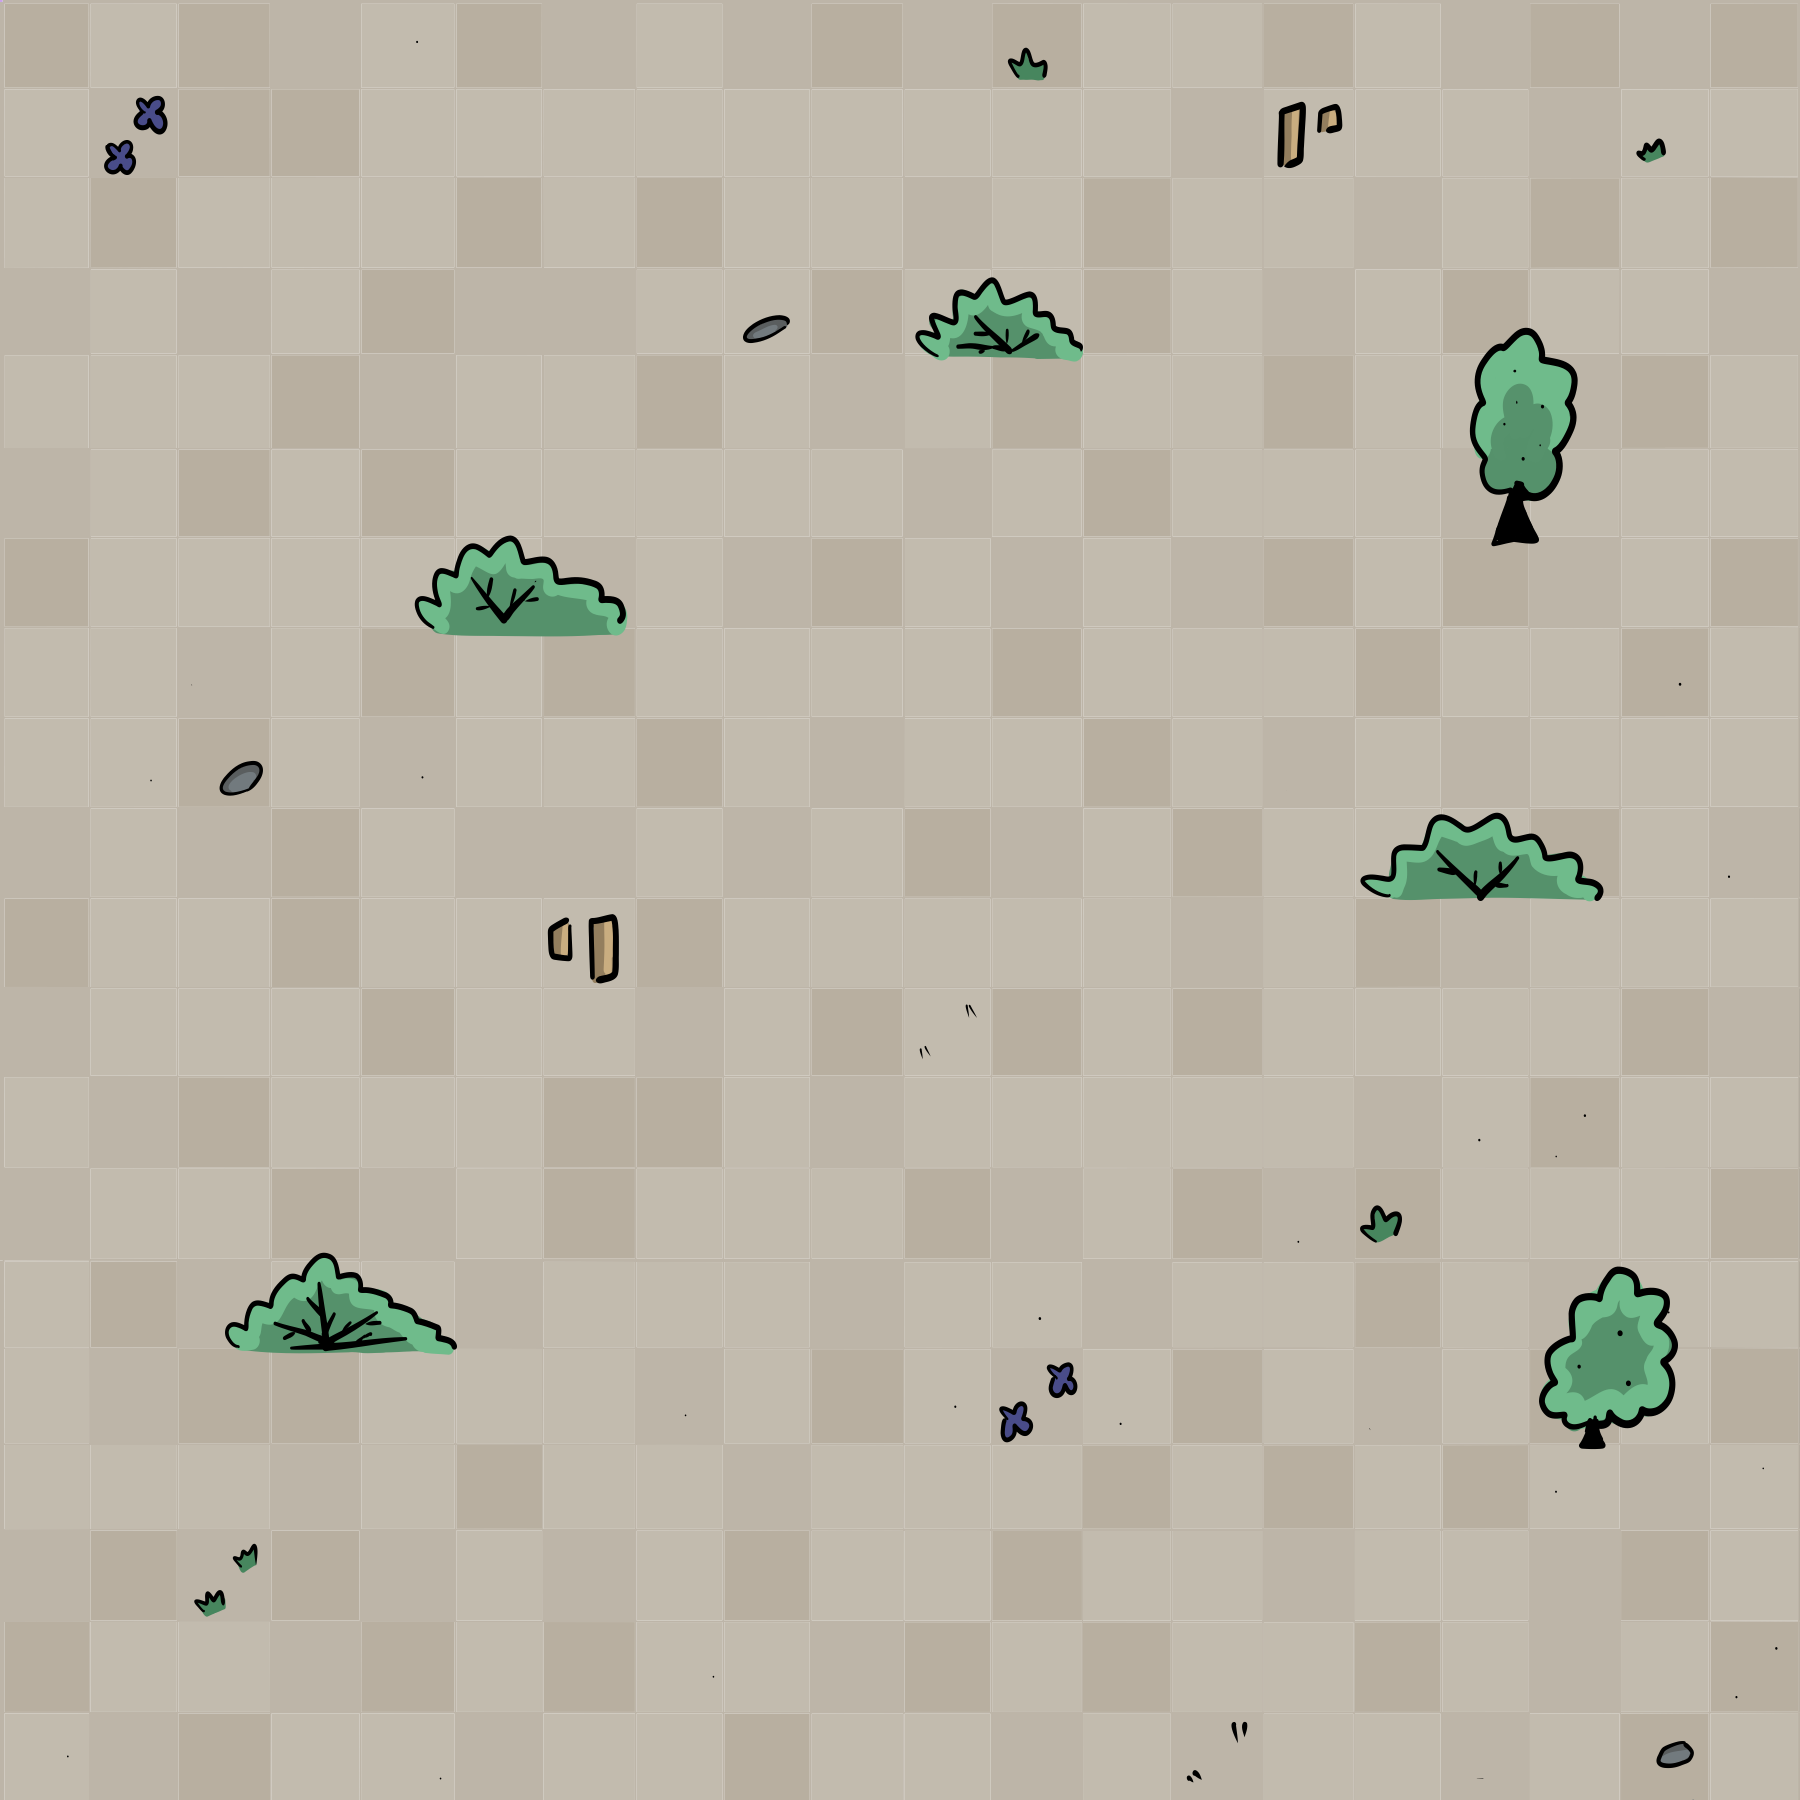
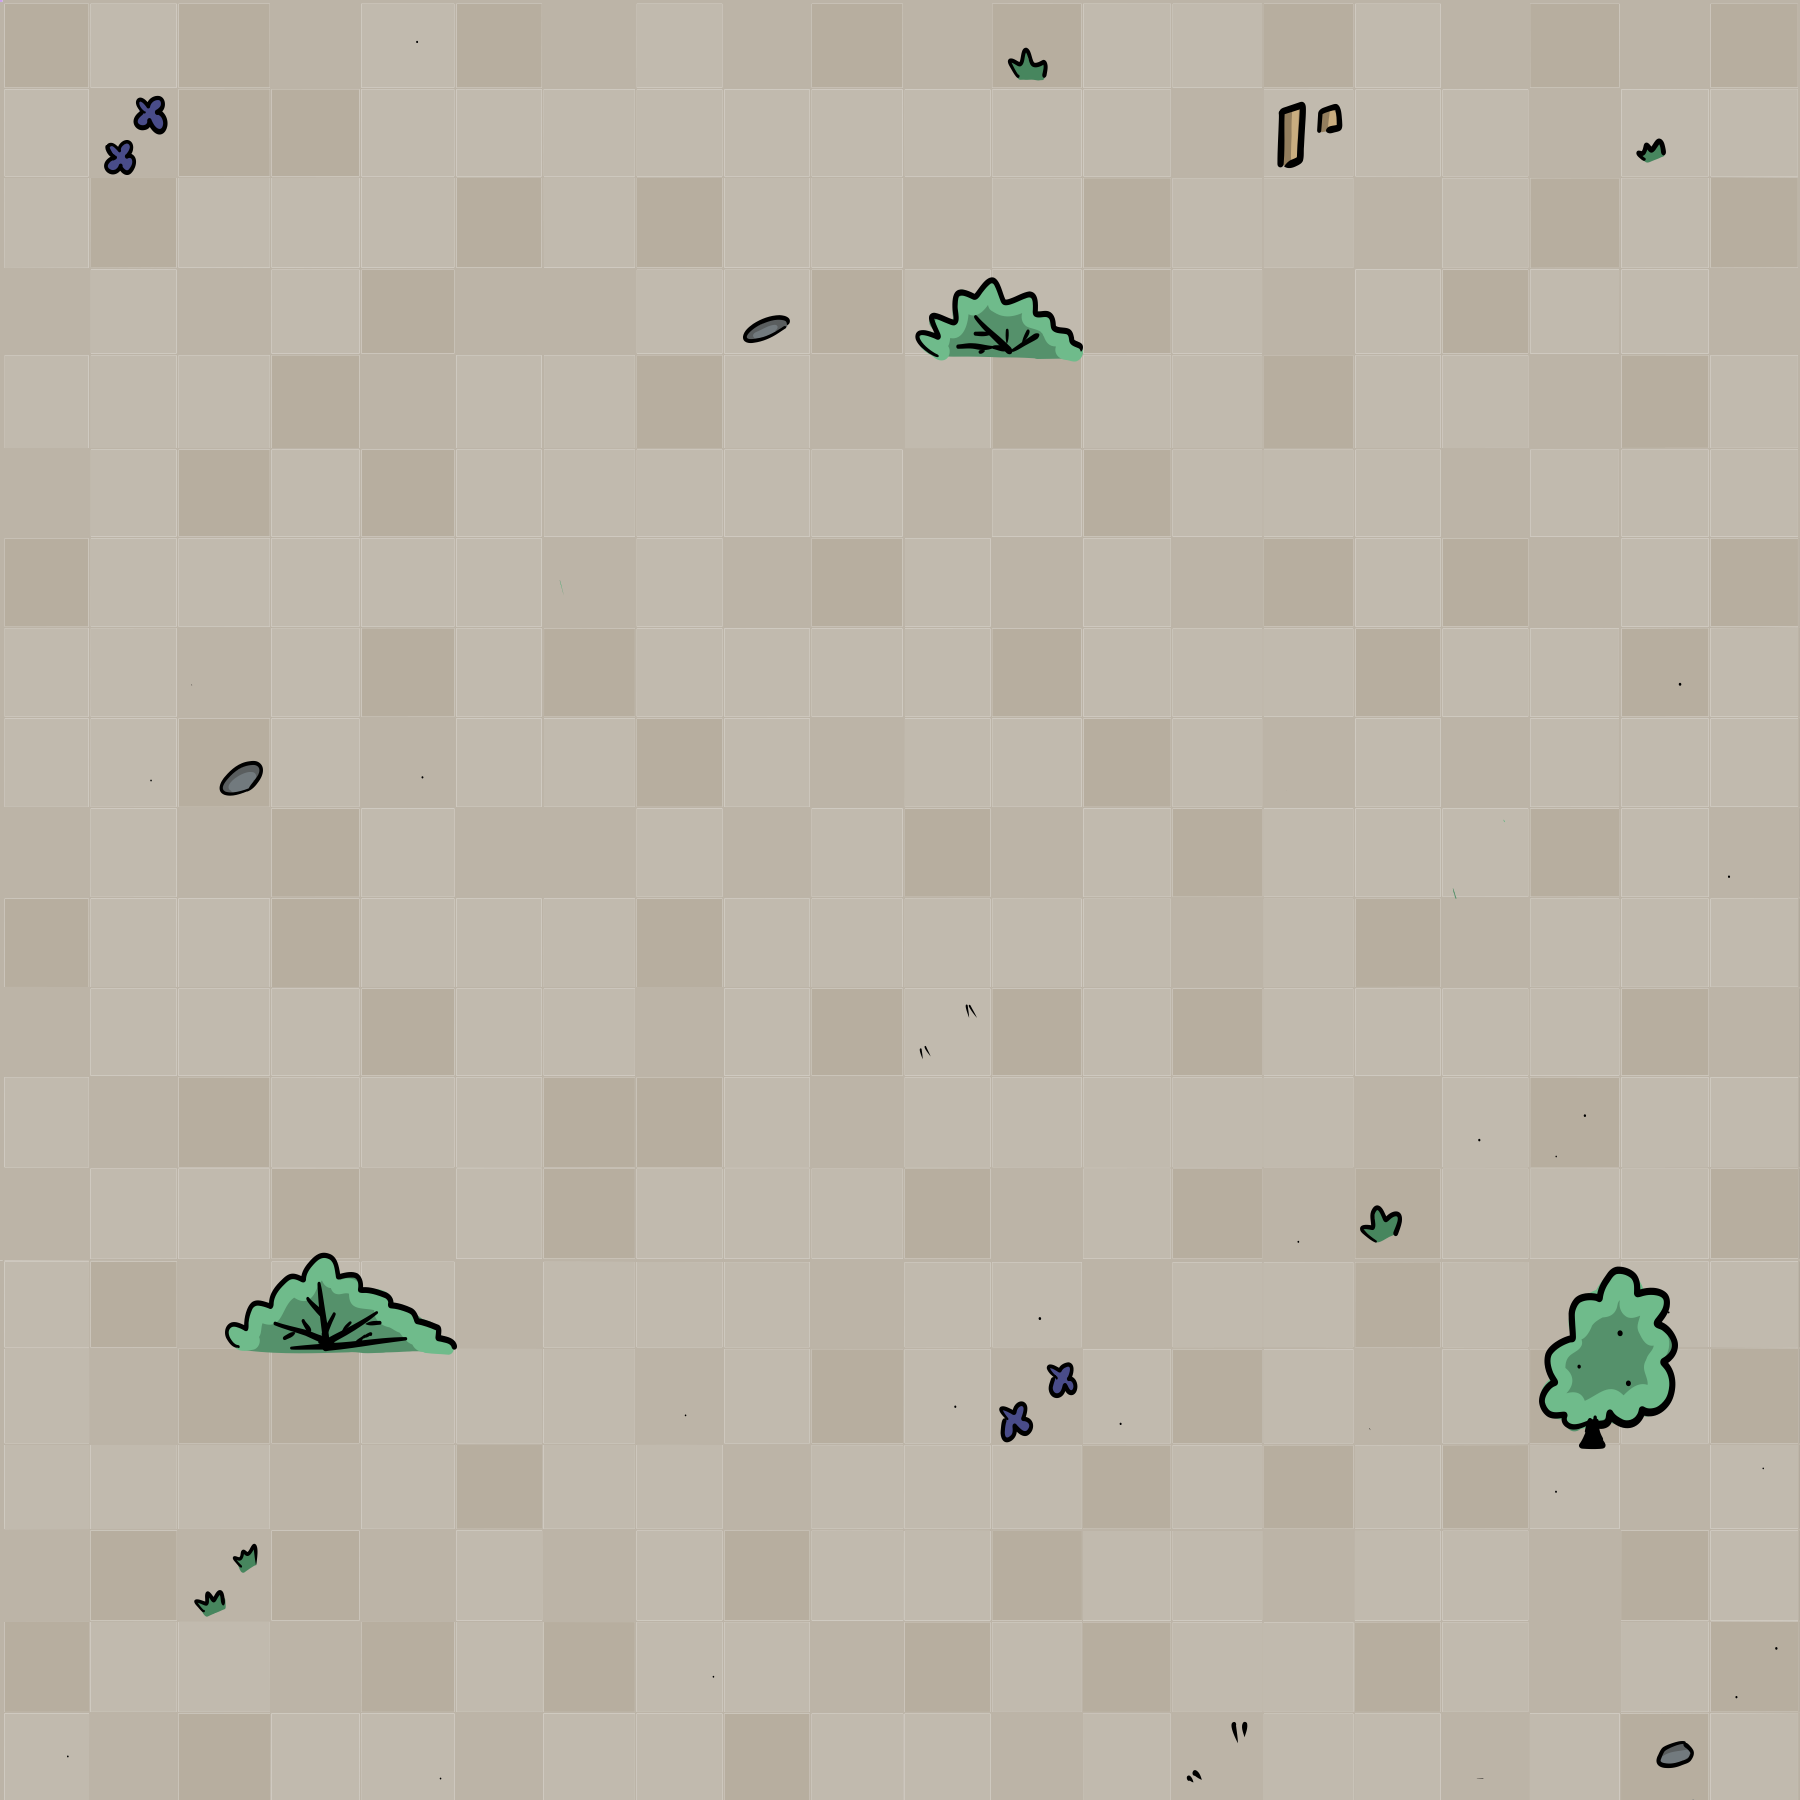
addded custom sign posts and status

diff --git a/js/map/mapScene.js b/js/map/mapScene.js
@@ -121,6 +121,12 @@ const SIGN_POS = {
   harmony: { x: 320, y: 40 },
 };
 const SIGN_SIZE = { w: 208, h: 232 };
+const SIGN_SIZE_OVERRIDES = {
+  harmony: { w: 330, h: 360 },
+  foundations: { w: 330, h: 360 },
+  melody: { w: 330, h: 360 },
+  playground: { w: 330, h: 360 },
+};
 
 function drawFeetAnchored(ctx, image, worldX, worldY, w, h, cameraX, cameraY, viewWidth, viewHeight, label) {
   const screenX = worldX - cameraX;
@@ -147,15 +153,76 @@ function drawFeetAnchored(ctx, image, worldX, worldY, w, h, cameraX, cameraY, vi
   }
 }
 
-function drawSign(ctx, cameraX, cameraY, viewWidth, viewHeight, section) {
-  const pos = SIGN_POS[section];
-  drawFeetAnchored(
-    ctx, SIGN_IMAGES[section], pos.x, pos.y, SIGN_SIZE.w, SIGN_SIZE.h,
-    cameraX, cameraY, viewWidth, viewHeight, `${section} sign`
-  );
+const SIGN_LABELS = {
+  foundations: 'Foundations',
+  melody: 'Melody',
+  harmony: 'Harmony',
+  playground: 'Instrument Playground',
+};
+
+const SIGN_PROGRESS_OFFSET_Y = 60; 
+
+function getSectionProgress(section) {
+  let total = 0;
+  let completed = 0;
+  for (const concept of CONCEPTS) {
+    if (concept.section !== section) continue;
+    total++;
+    if (isVisited(concept.id)) completed++;
+  }
+  return { completed, total };
 }
 
-// --- Nodes ---
+const SIGN_PROGRESS_OFFSET_OVERRIDES = {
+  playground: 0, 
+};
+
+const LEVITATE_AMPLITUDE = 6; 
+const LEVITATE_SPEED = 2;    
+const SIGN_PHASE_OFFSETS = {
+  foundations: 0,
+  melody: Math.PI / 2,
+  harmony: Math.PI,
+  playground: Math.PI * 1.5,
+}; 
+
+function drawSign(ctx, cameraX, cameraY, viewWidth, viewHeight, section) {
+  const pos = SIGN_POS[section];
+  const size = SIGN_SIZE_OVERRIDES[section] || SIGN_SIZE;
+  drawFeetAnchored(
+    ctx, SIGN_IMAGES[section], pos.x, pos.y, size.w, size.h,
+    cameraX, cameraY, viewWidth, viewHeight, `${section} sign`
+  );
+
+  const { completed, total } = getSectionProgress(section);
+  const screenX = pos.x - cameraX;
+  const topScreenY = pos.y - cameraY - size.h;
+  const baseOffsetY = SIGN_PROGRESS_OFFSET_OVERRIDES[section] ?? SIGN_PROGRESS_OFFSET_Y;
+
+  const t = performance.now() / 1000;
+  const phase = t * LEVITATE_SPEED + (SIGN_PHASE_OFFSETS[section] || 0);
+  const levitateOffset = Math.sin(phase) * LEVITATE_AMPLITUDE;
+  const glow = 6 + Math.sin(phase) * 3; 
+
+  const label = `${completed}/${total}`;
+  const labelY = topScreenY + baseOffsetY + levitateOffset;
+
+  ctx.save();
+  ctx.font = 'bold 22px sans-serif';
+  ctx.textAlign = 'center';
+
+  ctx.lineWidth = 4;
+  ctx.strokeStyle = '#2a1f18';
+  ctx.strokeText(label, screenX, labelY);
+
+  ctx.shadowColor = 'rgba(244, 201, 93, 0.9)';
+  ctx.shadowBlur = glow;
+  ctx.fillStyle = '#fdf6e3';
+  ctx.fillText(label, screenX, labelY);
+  ctx.restore();
+}
+
+// Nodes 
 function drawBadge(ctx, x, y, symbol, color) {
   ctx.beginPath();
   ctx.arc(x, y, 14, 0, Math.PI * 2);

diff --git a/js/map/goat.js b/js/map/goat.js
@@ -30,7 +30,7 @@ const SHADOW_OFFSET_X = -8;
 
 export const goat = {
   x: 0,
-  y: 150, 
+  y: -50, 
   facing: 'right',
   moving: false,
   frameIndex: 0,

diff --git a/js/map/camera.js b/js/map/camera.js
@@ -1,5 +1,5 @@
 
-export const ZOOM = 1.22; 
+export const ZOOM = 1.20; 
 const HOLD_RADIUS = 220;
 const FOLLOW_RADIUS = 380;
 const CAMERA_LAG = 4;
